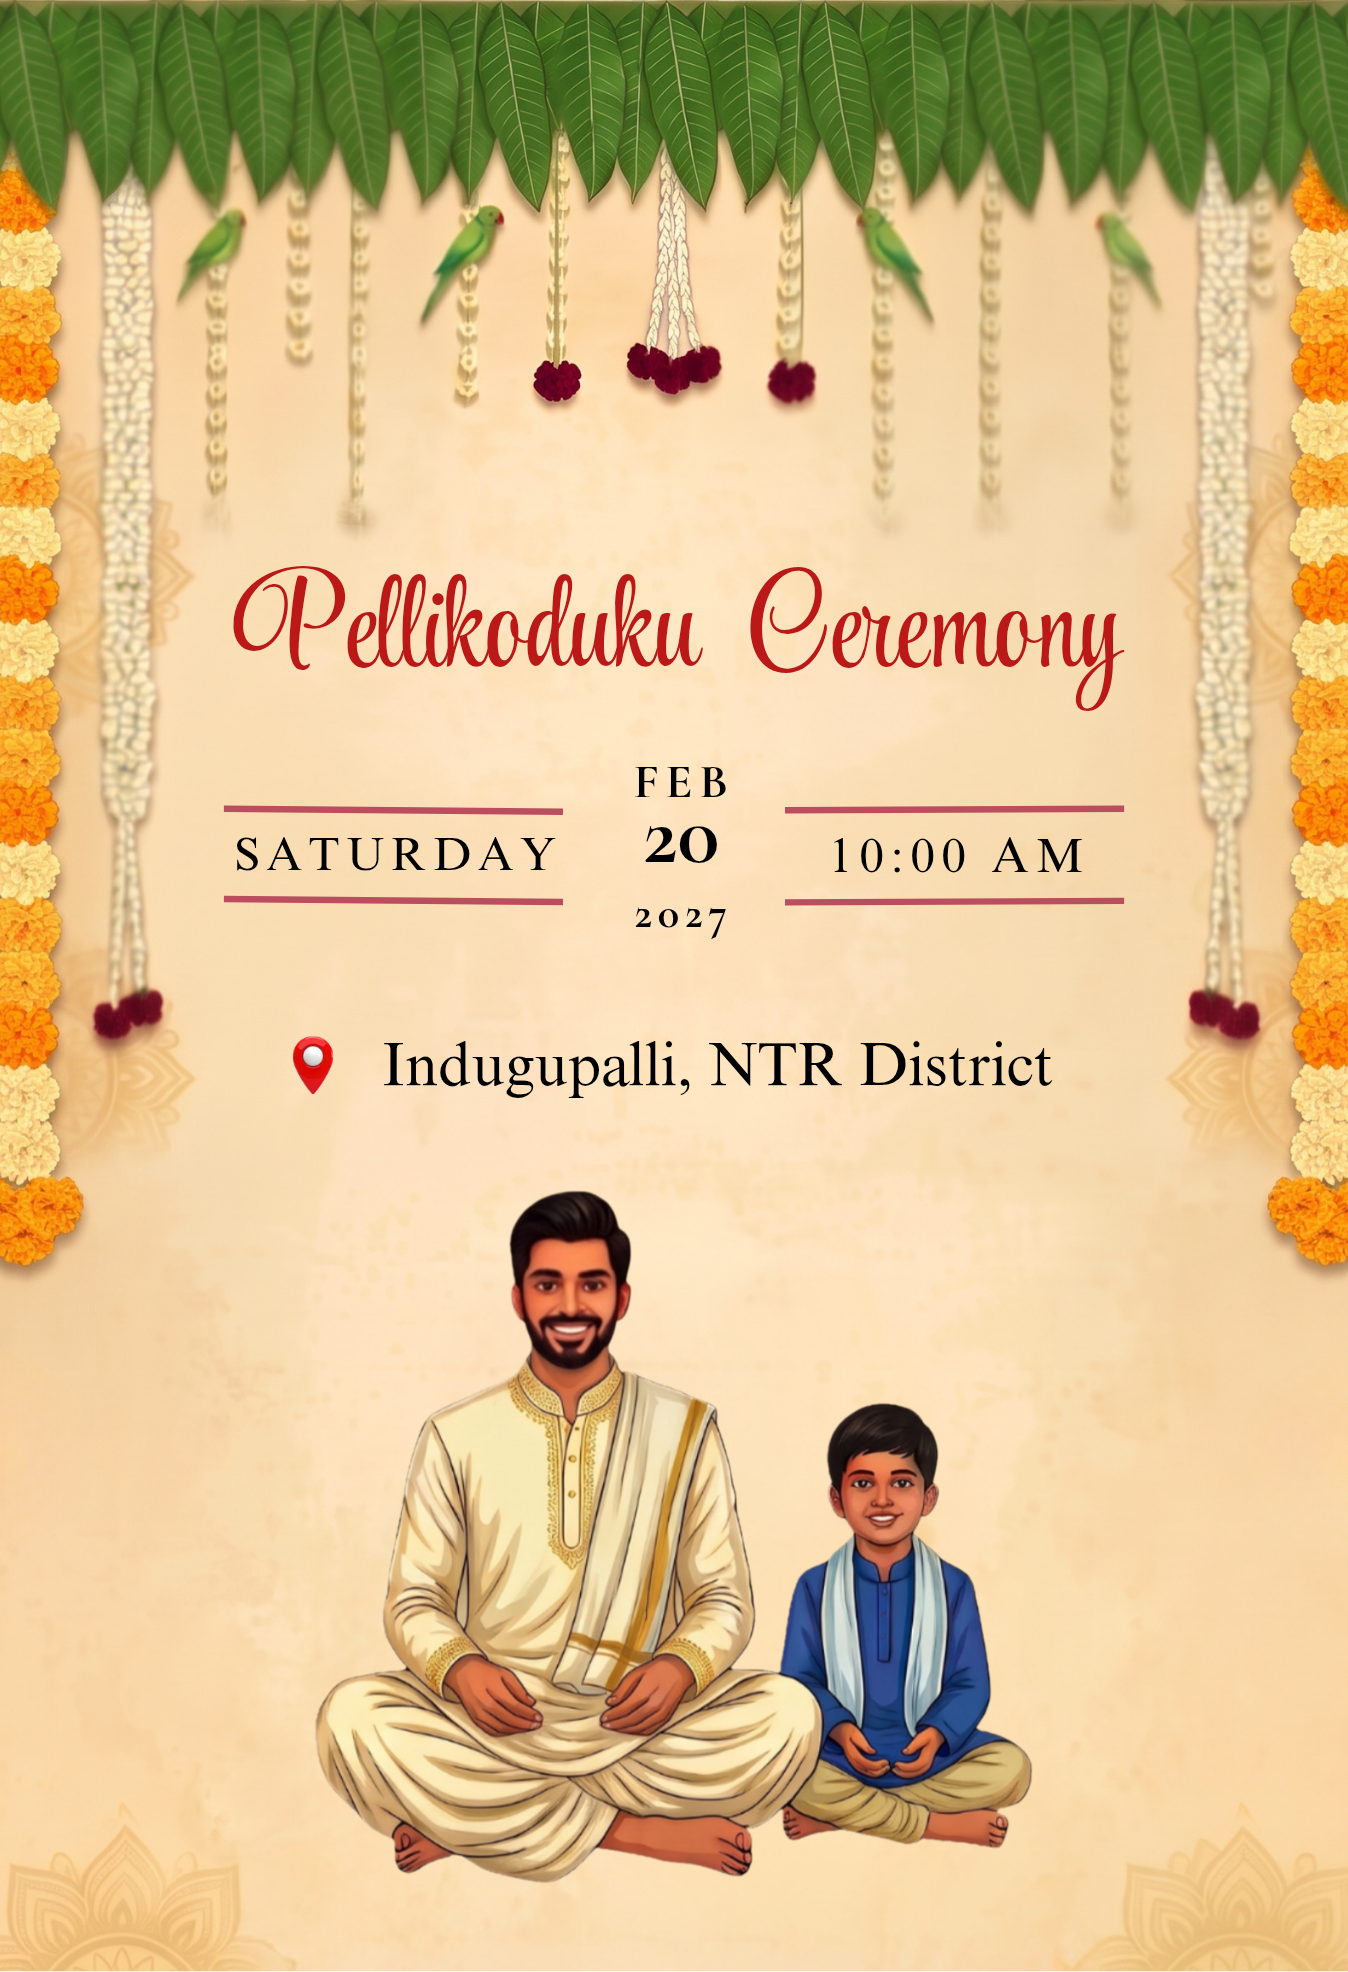
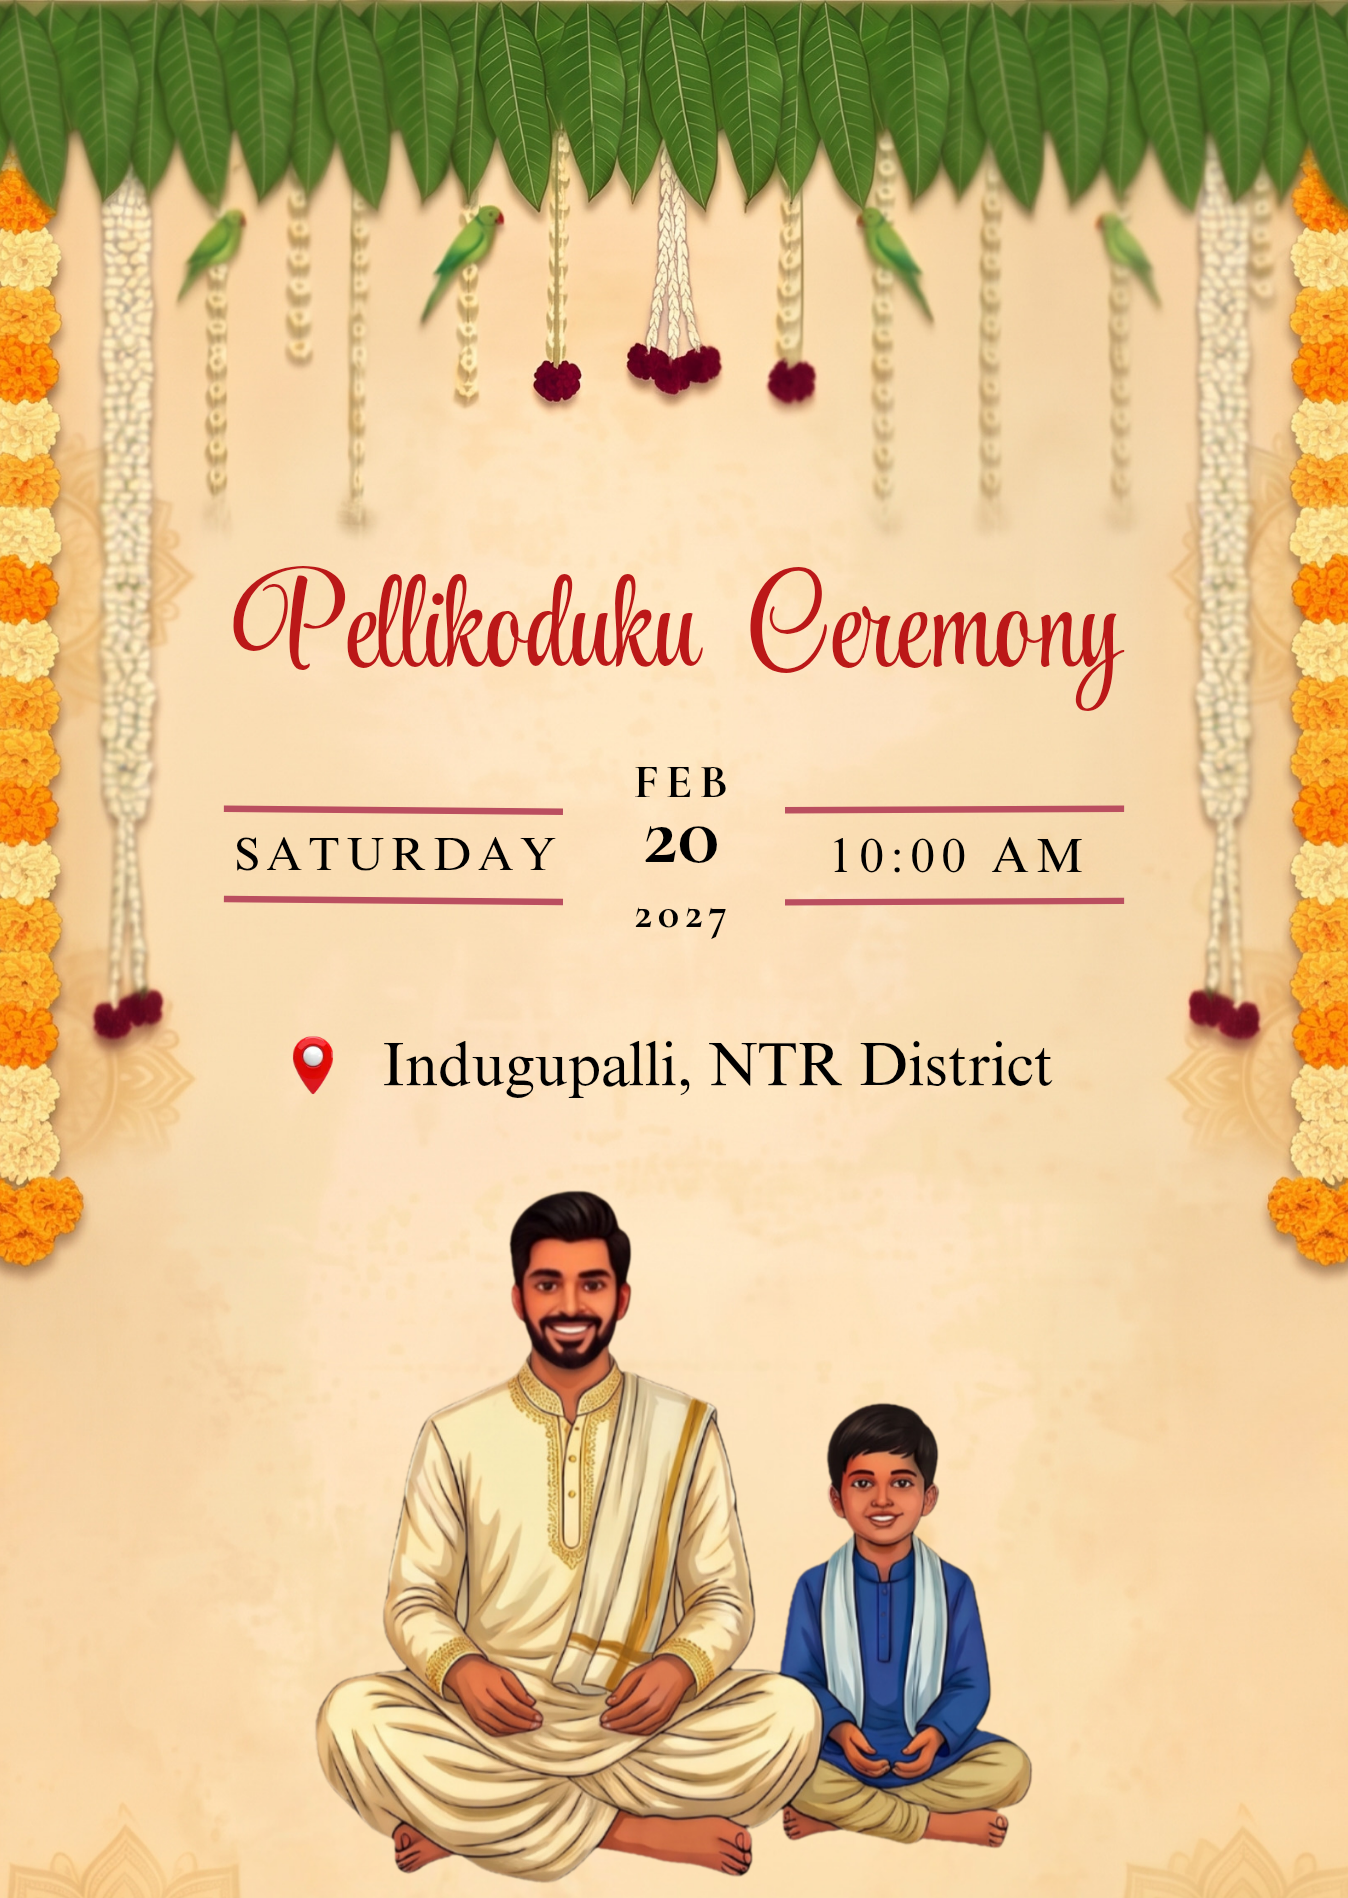
Replace Pellikoduku invitation image with the new version
Claude-Session: https://claude.ai/code/session_01TKswoPEtykbCNgX6iQKVac

diff --git a/app/events/event-parts.tsx b/app/events/event-parts.tsx
@@ -43,7 +43,7 @@ export type Invite = { src: string; width: number; height: number };
 export const INVITE_IMAGES: Record<string, Invite> = {
   haldi: { src: "/prelude/haldi-invite.png", width: 896, height: 1195 },
   sangeet: { src: "/prelude/sangeet-invite.png", width: 1497, height: 2048 },
-  pellikoduku: { src: "/prelude/pellikoduku-invite.png", width: 1348, height: 1972 },
+  pellikoduku: { src: "/prelude/pellikoduku-invite.png", width: 1348, height: 1898 },
   pellikuturu: { src: "/prelude/pellikuturu-invite.png", width: 1348, height: 1887 },
   marriage: { src: "/prelude/marriage-invite.png", width: 1348, height: 1888 },
 };
